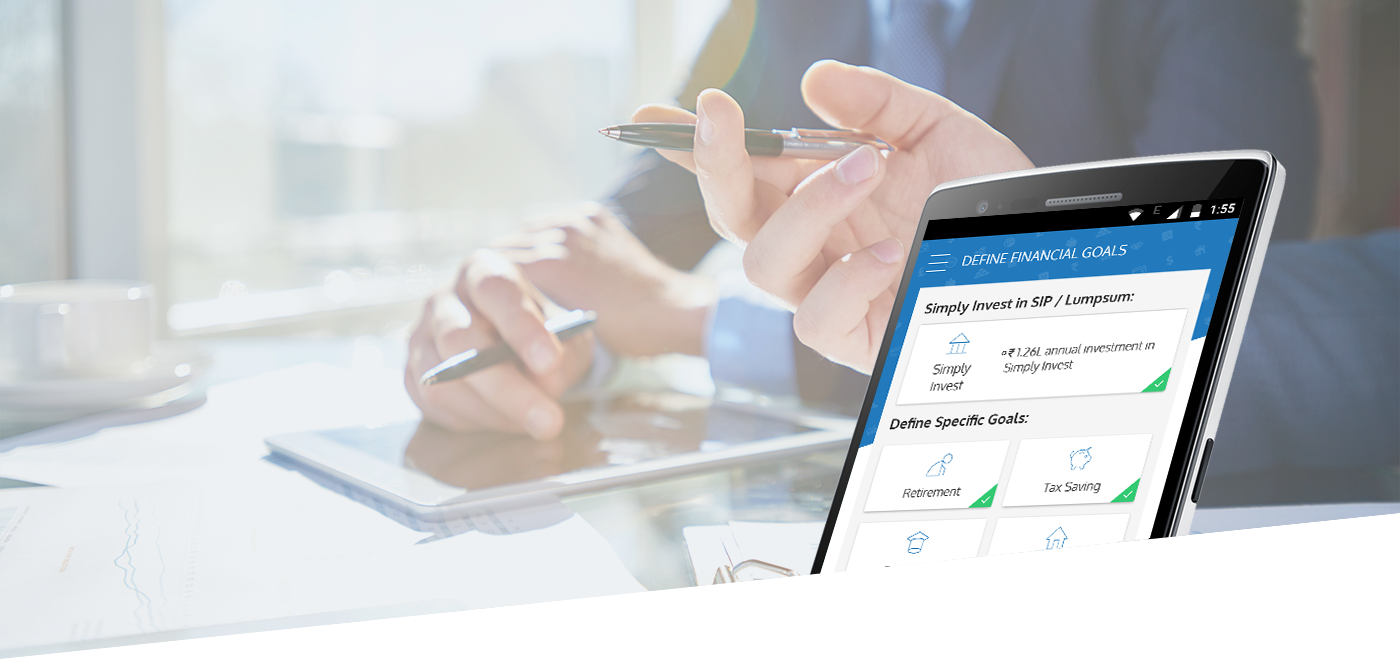
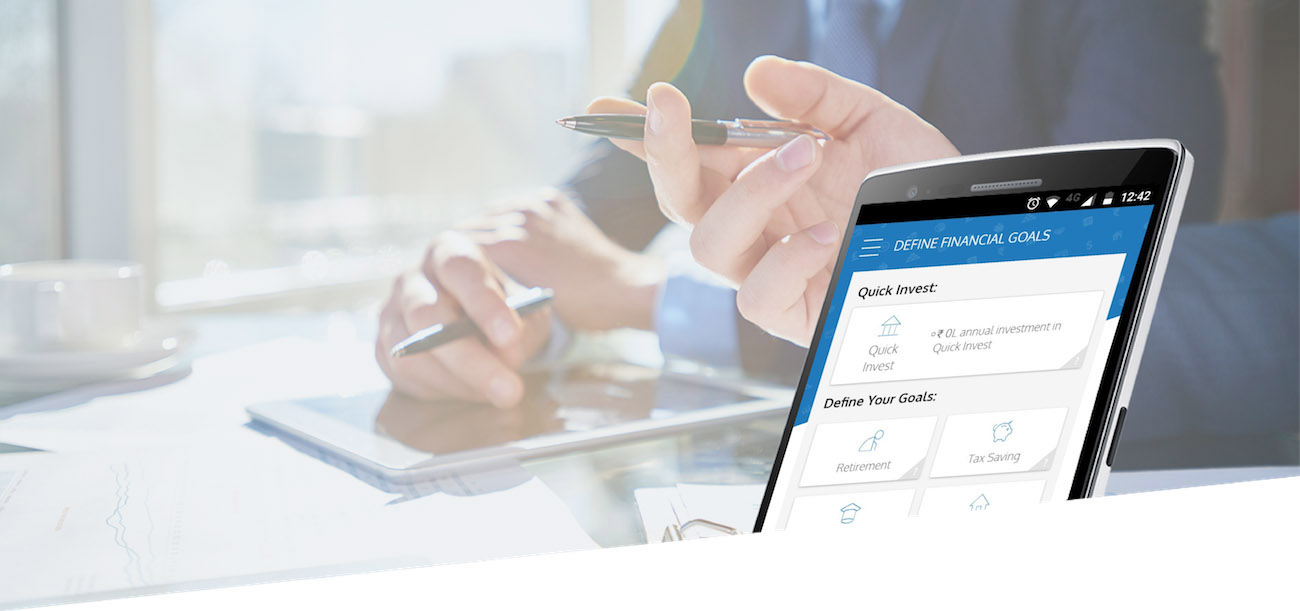
Sync with kuliza src backend

diff --git a/webapp/templates/base/faqs.html b/webapp/templates/base/faqs.html
@@ -590,12 +590,17 @@ validated through OTP), and Email address (with verification through email link 
                          <ol>
                              <p class="p_text_faq" >
                              
-                             <strong> 1 . </strong>You can set up any financial goal like Retirement / Tax Saving / Education etc. and our proprietary algorithm will assist 
-                             you with setting up that goal based on targeted amount and when you need the money (goal tenure). It will automatically 
-                             tell you what monthly investment in SIP (Systematic Investment Plan) is required to meet your goal based on expected growth
-                             values. You can also select any one-time investment value (Lumpsum), and your required SIP amount will be updated automatically.
+                             <strong> 1 . </strong>You can set up any financial goal like Retirement / Tax Saving / Education etc.
+                             and our proprietary algorithm will assist you with setting up that goal based on targeted amount and
+                             when you need the money (goal tenure).
+                             It will take into account your risk profile and goal tenure, and advise appropriate
+                             asset allocation between Equity and Debt. 
+                             
+                             Further it will automatically tell you what monthly investment in SIP (Systematic Investment Plan)
+                             is required to meet your goal based on expected growth projections.
+                        
                              <br><br>
-                             <strong> 2 . </strong> You can also choose to &#39Simply Invest&#39 with your preferred SIP amount / tenure and/or a one-time Lumpsum investment.
+                             <strong> 2 . </strong> You can also choose to &#39Quick Invest&#39 with your preferred SIP amount / tenure and/or a one-time Lumpsum investment.
                              <br><br>
                              <strong> 3 . </strong> We will advise you a preferred asset allocation between equity (stocks) and debt (interest bearing bonds), 
                              based on your Risk Score as well as the details of your goal. However, you can also edit your asset allocation as per your preference if you are sure about it

diff --git a/webapp/templates/transaction/user-confirm-pay.html b/webapp/templates/transaction/user-confirm-pay.html
@@ -659,7 +659,7 @@ Please complete the payment process through that link via NetBanking using your 
                     <tbody>
                         <tr>
                             <td align="center" valign="middle" class="mcnButtonContent" style="font-family: Arial; font-size: 12px; padding: 12px;">
-                                <a class="mcnButton " title="Define Goals &amp; Invest Now" href="https://play.google.com/store/apps/details?id=com.finaskus.finaskus_android" target="_self" style="font-weight: bold;letter-spacing: normal;line-height: 100%;text-align: center;text-decoration: none;color: #FFFFFF;">Define Goals &amp; Invest Now</a>
+                                <a class="mcnButton " title="Track Performance" href="https://play.google.com/store/apps/details?id=com.finaskus.finaskus_android" target="_self" style="font-weight: bold;letter-spacing: normal;line-height: 100%;text-align: center;text-decoration: none;color: #FFFFFF;">Track Performance  </a>
                             </td>
                         </tr>
                     </tbody>

diff --git a/README.md b/README.md
@@ -49,13 +49,9 @@ webapp/fixtures/pincode_modified.json webapp/fixtures/ifsc_codes.json`
 
 
 ## Server updates process
-*  Log in to AWS
-*  'cd ~/projects/finaskus'
-*  'source finaskus-env/bin/activate'
-*  cd backend-finaskus
 * `sudo git pull origin <branch_name>` (ex master is the branch that needs to be pulled)
-*  If any changes are done in static files(images & CSS( anything in static folder)) run `python manage.py collectstatic`
-* `ps -ef | grep gunicorn` will list down the workers with their pids ( find gunicorn process & kill them)
-* `sudo kill -9 <all the pids space seperated>` This will kill all the gunicorn process with that pid
+* If any changes are done in static files run `python manage.py collectstatic`
+* `ps -ef | grep gunicorn` will list down the workers with their pids
+* `sudo kill -9 <all the pids space seperated>` This will kill all the process with that pid
 *  ALTERNATELY it can be killed by `pkill -9 gunicorn` if we are sure gunicorn is only running our project alone
 * from the location `/projects/finaskus/backend-finaskus` on current server run `nohup ./../finaskus-env/bin/gunicorn_start.sh &` to run the server again
